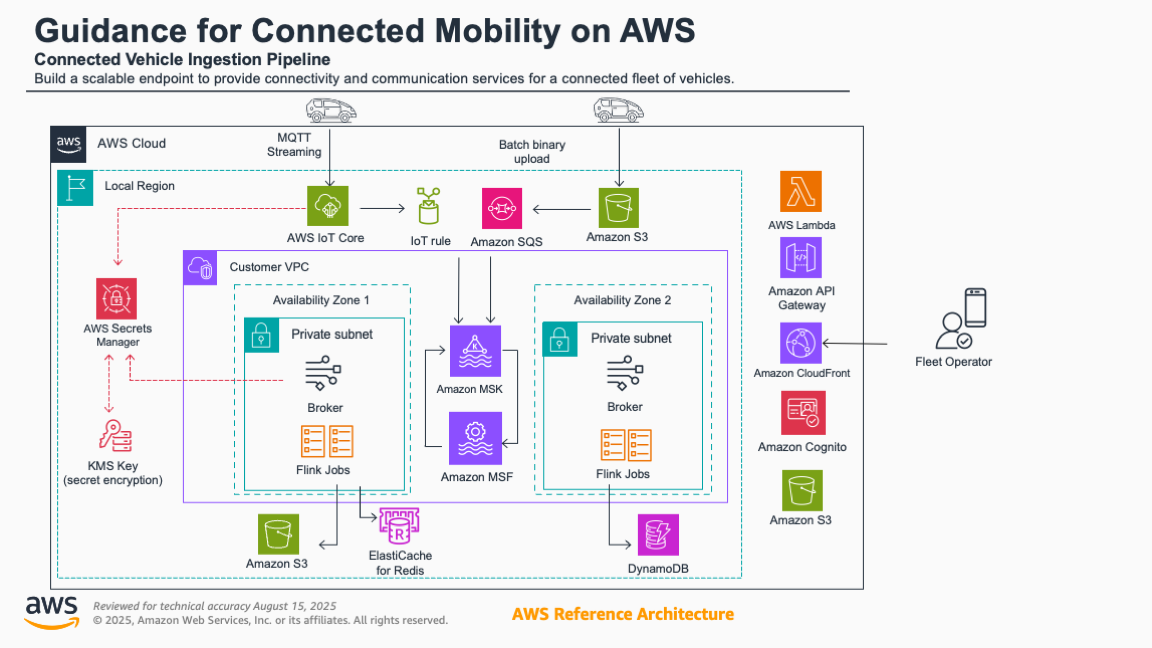
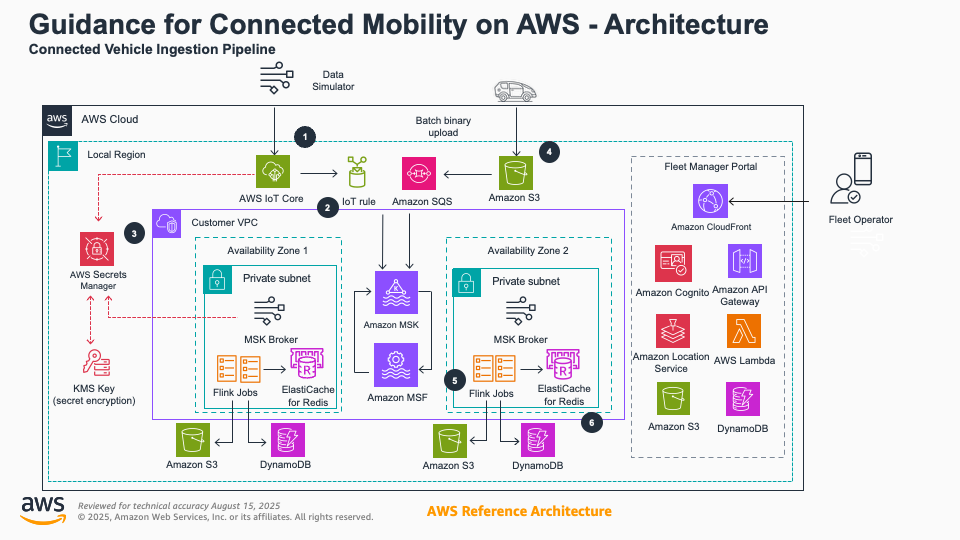
Updated documentation.

Changed region(s): [[0.0, 0.0296, 0.875, 0.9778], [0.8438, 0.2667, 0.9375, 0.4148], [0.8125, 0.3556, 0.8438, 0.3852]]

diff --git a/deployment/stacks/flink_stack.py b/deployment/stacks/flink_stack.py
@@ -228,7 +228,8 @@ class FlinkStack(Stack):
         
         # Add DynamoDB permissions for all tables
         for table in storage_tables.values():
-            table.grant_read_write_data(self.flink_role)
+            if hasattr(table, 'grant_read_write_data'):
+                table.grant_read_write_data(self.flink_role)
         
         # Add explicit DynamoDB permissions for storage tables
         self.flink_role.add_to_policy(
@@ -253,6 +254,17 @@ class FlinkStack(Stack):
         
         # Add S3 permissions for JAR bucket
         self.jar_bucket.grant_read(self.flink_role)
+        
+        # Add S3 write permissions for datalake bucket
+        datalake_bucket_name = storage_tables.get('datalake_bucket_name')
+        if datalake_bucket_name:
+            self.flink_role.add_to_policy(
+                iam.PolicyStatement(
+                    effect=iam.Effect.ALLOW,
+                    actions=["s3:PutObject", "s3:PutObjectAcl"],
+                    resources=[f"arn:aws:s3:::{datalake_bucket_name}/*"]
+                )
+            )
         
         # CloudWatch Log Groups for all Flink applications
         self.event_driven_telemetry_log_group = logs.LogGroup(

diff --git a/deployment/stacks/storage_stack.py b/deployment/stacks/storage_stack.py
@@ -262,7 +262,7 @@ class StorageStack(Stack):
         # S3 Datalake Bucket for Iceberg Analytics
         self.datalake_bucket = s3.Bucket(
             self, "DatalakeBucket",
-            bucket_name=f"{construct_id}-datalake",
+            bucket_name=f"{construct_id}-datalake-{self.account}",
             removal_policy=RemovalPolicy.RETAIN,
             versioned=True,
             public_read_access=False,
@@ -285,8 +285,14 @@ class StorageStack(Stack):
             ]
         )
         
+        # Add datalake bucket name to tables dictionary for downstream services
+        self.tables['datalake_bucket_name'] = self.datalake_bucket.bucket_name
+        
         # Outputs for each table
         for table_name, table in self.tables.items():
+            # Skip non-table entries (like datalake_bucket_name)
+            if not hasattr(table, 'table_name'):
+                continue
             # Replace underscores with hyphens for export names
             export_name = table_name.replace('_', '-')
             CfnOutput(

diff --git a/README.md b/README.md
@@ -30,7 +30,7 @@ Connected mobility applications require complex integration of IoT devices, real
 - Implements industry best practices for fleet management and safety compliance
 - Offers realistic simulation capabilities for testing without physical vehicle fleets
 
-![Architecture Diagram](assets/images/architecture_final.png)
+![Architecture Diagram](/documentation/architecture_final.png)
 
 ### Architecture Flow
 
@@ -38,12 +38,14 @@ Connected mobility applications require complex integration of IoT devices, real
 2. **Data Ingestion**: Telemetry data flows through Amazon MSK (Kafka) for high-throughput processing
 3. **Real-time Processing**: Apache Flink on Amazon Kinesis Data Analytics processes streams to generate trips, safety events, and maintenance alerts
 4. **Data Storage**: Processed data is stored in DynamoDB with automatic scaling and backup
-5. **Fleet Management**: Web application provides comprehensive fleet management, driver tracking, and analytics dashboards
-6. **Simulation**: Integrated fleet simulator generates realistic telemetry for testing and development
+5. **Real-time State Management**: Amazon ElastiCache for Redis maintains last known vehicle state for sub-second lookups
+6. **Location Services**: Amazon Location Service provides maps, geocoding, and route calculation for vehicle tracking and trip planning
+7. **Fleet Management**: Web application provides comprehensive fleet management, driver tracking, and analytics dashboards with real-time map visualization
+8. **Simulation**: Integrated fleet simulator generates realistic telemetry for testing and development
 
 ### Cost
 
-_You are responsible for the cost of the AWS services used while running this Guidance. As of October 2024, the cost for running this Guidance with the default settings in the US East (N. Virginia) region is approximately $450.00 per month for processing 1,000 vehicles with moderate usage._
+_You are responsible for the cost of the AWS services used while running this Guidance. As of October 2024, the cost for running this Guidance with the default settings in the US East (N. Virginia) region is approximately $410.00 per month for processing 1,000 vehicles with moderate usage._
 
 _We recommend creating a [Budget](https://docs.aws.amazon.com/cost-management/latest/userguide/budgets-managing-costs.html) through [AWS Cost Explorer](https://aws.amazon.com/aws-cost-management/aws-cost-explorer/) to help manage costs. Prices are subject to change. For full details, refer to the pricing webpage for each AWS service used in this Guidance._
 
@@ -56,6 +58,8 @@ The following table provides a sample cost breakdown for deploying this Guidance
 | Amazon MSK | 3 kafka.m5.large brokers, 100 GB storage each | $194.40 |
 | Amazon Kinesis Data Analytics | 1 KPU running 24/7 | $108.00 |
 | Amazon DynamoDB | 10 GB storage, 1M read/write requests | $3.50 |
+| Amazon ElastiCache for Redis | cache.t3.micro node | $12.41 |
+| Amazon Location Service | 100K map tile requests, 10K geocoding requests | $8.00 |
 | AWS IoT Core | 1M messages per month | $5.00 |
 | Amazon API Gateway | 1M REST API calls per month | $3.50 |
 | Amazon Cognito | 1,000 active users per month | $0.00 |
@@ -63,7 +67,7 @@ The following table provides a sample cost breakdown for deploying this Guidance
 | AWS Lambda | 10M invocations, 512MB memory | $20.00 |
 | Amazon S3 | 50 GB storage, 1M requests | $1.50 |
 | Amazon VPC | NAT Gateway, data transfer | $45.60 |
-| **Total** | | **~$390.00** |
+| **Total** | | **~$410.00** |
 
 ## Prerequisites
 
@@ -76,7 +80,6 @@ These deployment instructions are optimized to best work on **Amazon Linux 2023 
 - Python 3.9 or later
 - AWS CLI v2
 - AWS CDK v2.100.0 or later
-- Docker (for local development)
 
 **Installation commands for Amazon Linux 2023:**
 ```bash
@@ -93,25 +96,18 @@ sudo ./aws/install
 
 # Install AWS CDK
 npm install -g aws-cdk
-
-# Install Docker
-sudo dnf install -y docker
-sudo systemctl start docker
-sudo usermod -a -G docker ec2-user
 ```
 
 ### Third-party tools
-
 - **Git** - For cloning the repository
 - **Make** - For running deployment scripts (optional)
 
 ### AWS account requirements
-
 - **AWS Account** with appropriate permissions for creating IAM roles, VPCs, and AWS services
 - **AWS CLI configured** with credentials that have administrative permissions
 - **Sufficient service quotas** for the services used (see Service limits section)
 
-### aws cdk bootstrap
+### AWS CDK
 
 This Guidance uses AWS CDK. If you are using AWS CDK for the first time, please perform the following bootstrapping:
 
@@ -140,35 +136,70 @@ This Guidance supports deployment in the following AWS Regions:
 
 ## Deployment Steps
 
+### Option 1: Automated Deployment with Makefile (Recommended)
+
+The Makefile automates environment setup, dependency installation, and phased deployment.
+
 1. Clone the repository:
    ```bash
    git clone https://github.com/aws-solutions-library-samples/guidance-for-connected-mobility-on-aws.git
+   cd guidance-for-connected-mobility-on-aws/deployment
    ```
 
-2. Navigate to the repository folder:
+2. View available deployment options:
    ```bash
+   make help
+   ```
+
+3. Deploy all phases sequentially:
+   ```bash
+   make deploy-all
+   ```
+
+   Or deploy individual phases:
+   ```bash
+   make infrastructure  # Phase 0: VPC, Subnets, ElastiCache
+   make phase1          # Phase 1: IoT, Storage, UI, Lambda, Cognito
+   make phase2          # Phase 2: Historical data injection
+   make phase3          # Phase 3: MSK Deployment
+   make phase3b         # Phase 4: MSK Configuration + IoT Integration
+   make phase4          # Phase 5: Flink Stream Processing
+   ```
+
+4. Capture the CloudFront distribution URL:
+   ```bash
+   aws cloudformation describe-stacks --stack-name cms-dev-ui --query 'Stacks[0].Outputs[?OutputKey==`CloudFrontURL`].OutputValue' --output text
+   ```
+
+### Option 2: Manual CDK Deployment
+
+For more control over individual stack deployments:
+
+1. Clone the repository:
+   ```bash
+   git clone https://github.com/aws-solutions-library-samples/guidance-for-connected-mobility-on-aws.git
    cd guidance-for-connected-mobility-on-aws
    ```
 
-3. Create and activate a Python virtual environment:
+2. Create and activate a Python virtual environment:
    ```bash
    python3 -m venv .venv
    source .venv/bin/activate  # On Windows: .venv\Scripts\activate
    ```
 
-4. Install Python dependencies:
+3. Install Python dependencies:
    ```bash
    pip install -r deployment/requirements.txt
    ```
 
-5. Install Node.js dependencies:
+4. Install Node.js dependencies:
    ```bash
    cd modules/cms_ui/source/frontend
    npm install
    cd ../../../../
    ```
 
-6. Configure deployment parameters by editing `deployment/config.json`:
+5. Configure deployment parameters by editing `deployment/config.json`:
    ```json
    {
      "stackPrefix": "cms-dev",
@@ -178,42 +209,22 @@ This Guidance supports deployment in the following AWS Regions:
    }
    ```
 
-7. Deploy the infrastructure foundation:
+6. Deploy stacks in order:
    ```bash
    cd deployment
    cdk deploy cms-dev-infrastructure --require-approval never
-   ```
-
-8. Deploy the storage layer:
-   ```bash
    cdk deploy cms-dev-storage --require-approval never
-   ```
-
-9. Deploy the messaging layer (MSK):
-   ```bash
    cdk deploy cms-dev-msk --require-approval never
+   cdk deploy cms-dev-iot --require-approval never
+   cdk deploy cms-dev-telemetry-integration --require-approval never
+   cdk deploy cms-dev-flink --require-approval never
+   cdk deploy cms-dev-ui --require-approval never
    ```
 
-10. Deploy the IoT and telemetry integration:
-    ```bash
-    cdk deploy cms-dev-iot --require-approval never
-    cdk deploy cms-dev-telemetry-integration --require-approval never
-    ```
-
-11. Deploy the Flink processing applications:
-    ```bash
-    cdk deploy cms-dev-flink --require-approval never
-    ```
-
-12. Deploy the presentation layer (UI):
-    ```bash
-    cdk deploy cms-dev-ui --require-approval never
-    ```
-
-13. Capture the CloudFront distribution URL:
-    ```bash
-    aws cloudformation describe-stacks --stack-name cms-dev-ui --query 'Stacks[0].Outputs[?OutputKey==`CloudFrontURL`].OutputValue' --output text
-    ```
+7. Capture the CloudFront distribution URL:
+   ```bash
+   aws cloudformation describe-stacks --stack-name cms-dev-ui --query 'Stacks[0].Outputs[?OutputKey==`CloudFrontURL`].OutputValue' --output text
+   ```
 
 ## Deployment Validation
 
@@ -226,12 +237,23 @@ This Guidance supports deployment in the following AWS Regions:
    - `cms-dev-storage-safety-events`
    - `cms-dev-storage-maintenance-alerts`
 
-3. **Validate MSK cluster**: Run the following command to check MSK cluster status:
+3. **Validate ElastiCache for Redis**: Verify the Redis cluster is running:
+   ```bash
+   aws elasticache describe-cache-clusters --cache-cluster-id cms-dev-redis --show-cache-node-info
+   ```
+
+4. **Verify Amazon Location Service resources**: Check that map and place index are created:
+   ```bash
+   aws location list-maps
+   aws location list-place-indexes
+   ```
+
+5. **Validate MSK cluster**: Run the following command to check MSK cluster status:
    ```bash
    aws kafka describe-cluster --cluster-arn $(aws kafka list-clusters --query 'ClusterInfoList[0].ClusterArn' --output text)
    ```
 
-4. **Test API Gateway**: Verify the API is accessible:
+6. **Test API Gateway**: Verify the API is accessible:
    ```bash
    curl -X GET $(aws cloudformation describe-stacks --stack-name cms-dev-ui --query 'Stacks[0].Outputs[?OutputKey==`ApiEndpoint`].OutputValue' --output text)/api/v1/health
    ```
